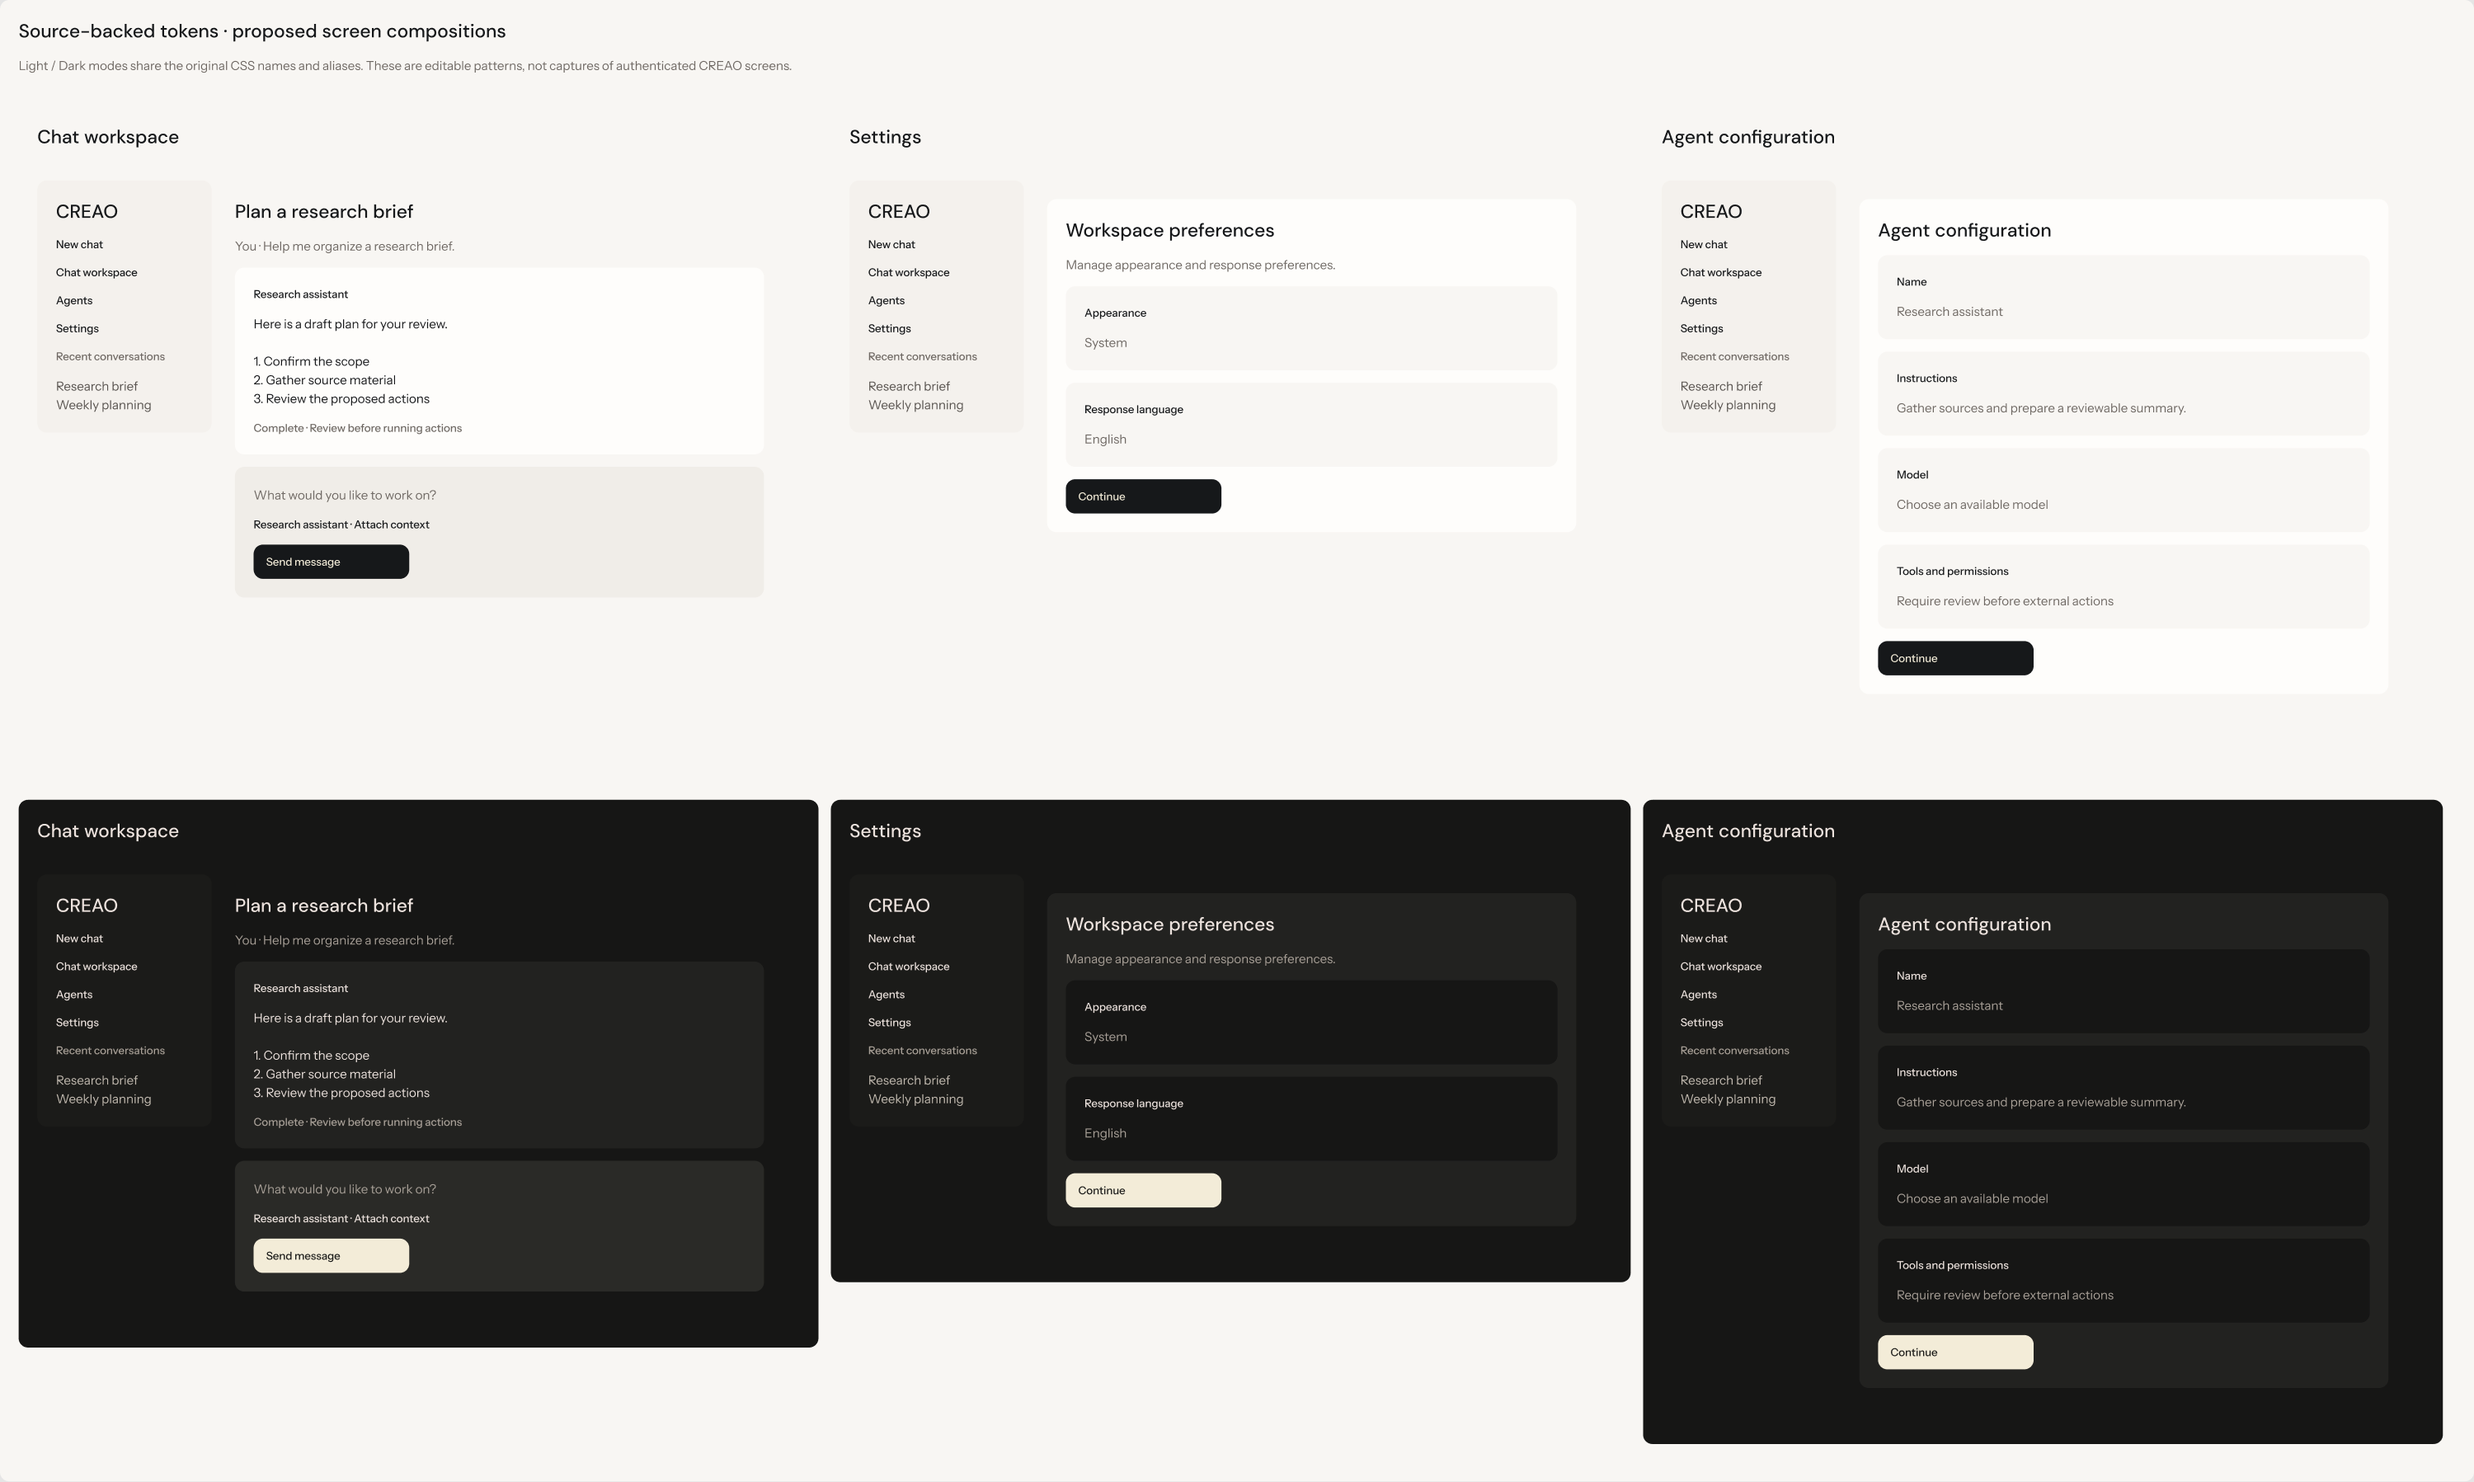
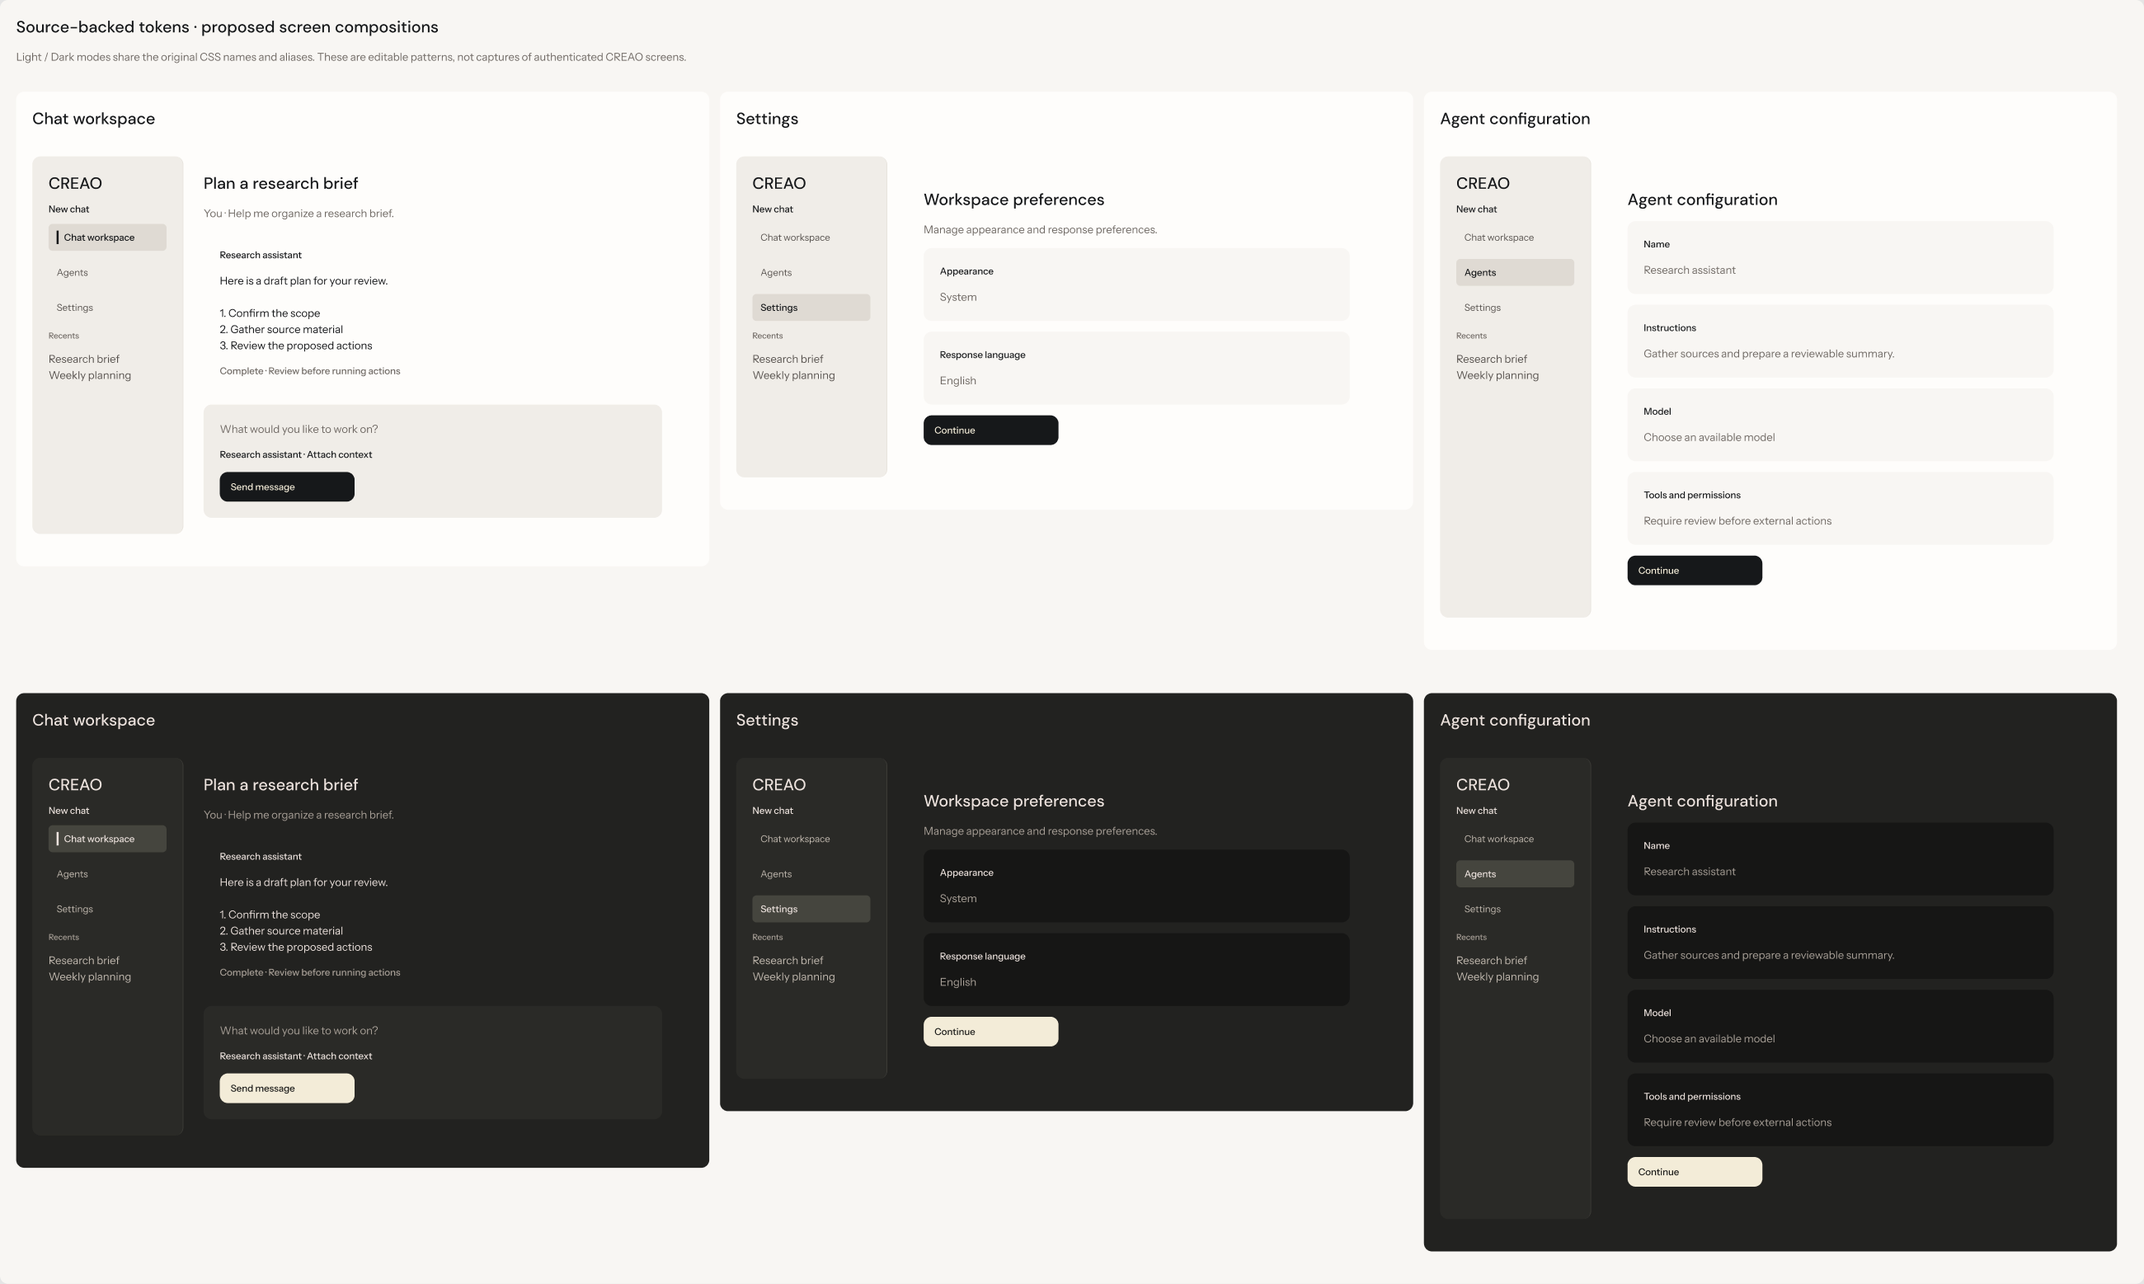
Clarify sidebar hierarchy across reusable Figma patterns

diff --git a/design/screen-patterns.md b/design/screen-patterns.md
@@ -6,6 +6,8 @@ These are proposed editable compositions using CREAO's existing tokens. They are
 
 ## Shared inventory
 
+Navigation hierarchy update (2026-10-11): the sidebar uses `--color-surface-alt`, the main canvas uses `--color-surface`, and a right-hand divider uses `--color-border`. Active navigation uses `--color-surface-raised` with `--color-foreground` text and a leading indicator. The selected label is medium weight; inactive labels use `--color-sidebar-fg`. Recents is a smaller muted section label. Each screen selects its corresponding route, and the sidebar stretches alongside the main panel. Both themes use the same source variables; no token values were changed.
+
 Seven source-bound components: primary action, labeled field, workspace navigation, agent message, composer, settings section and agent configuration. Screen patterns reuse component instances and auto-layout; they remain editable. Three shared text styles prevent typography drifting between patterns.
 
 | Pattern | Anatomy | Source roles | Required implementation states |
